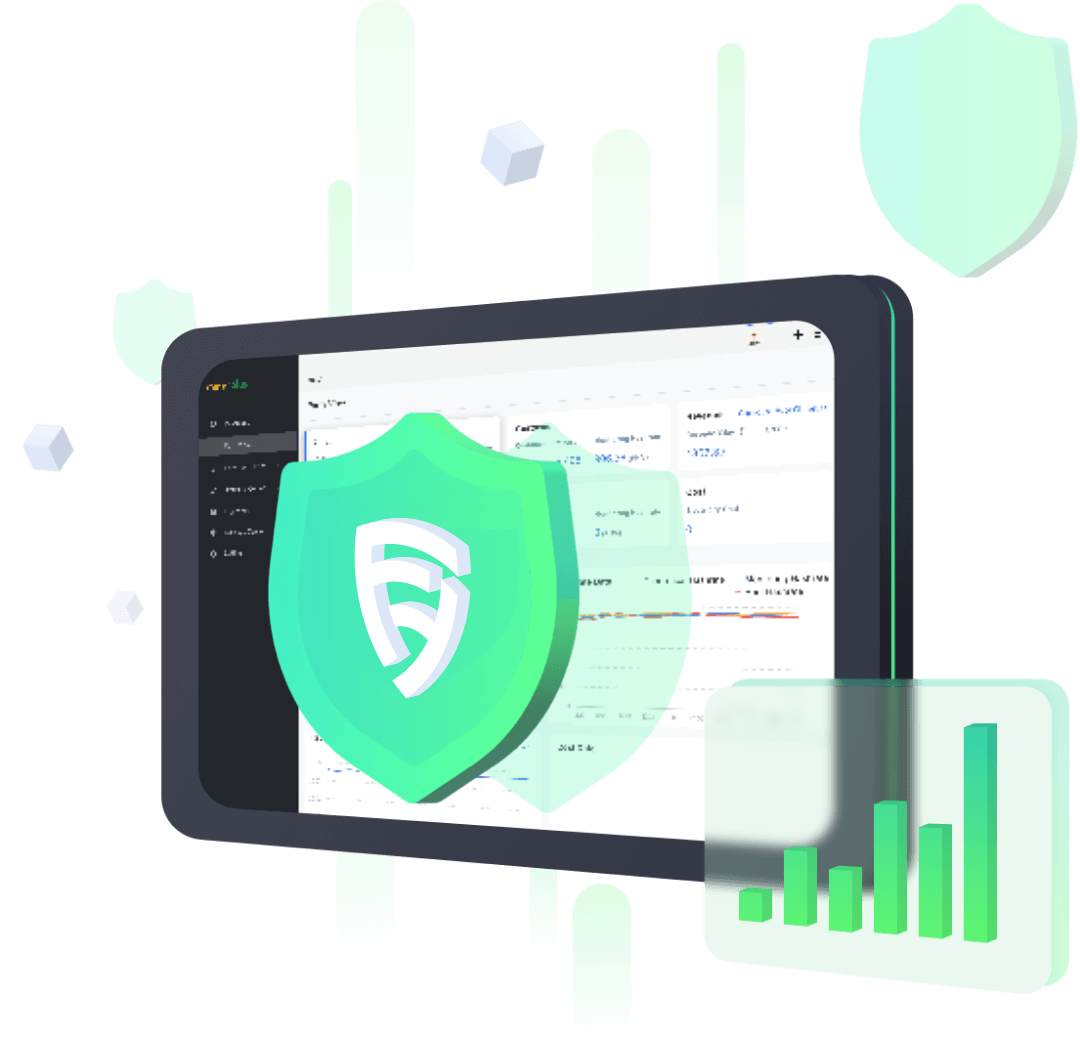
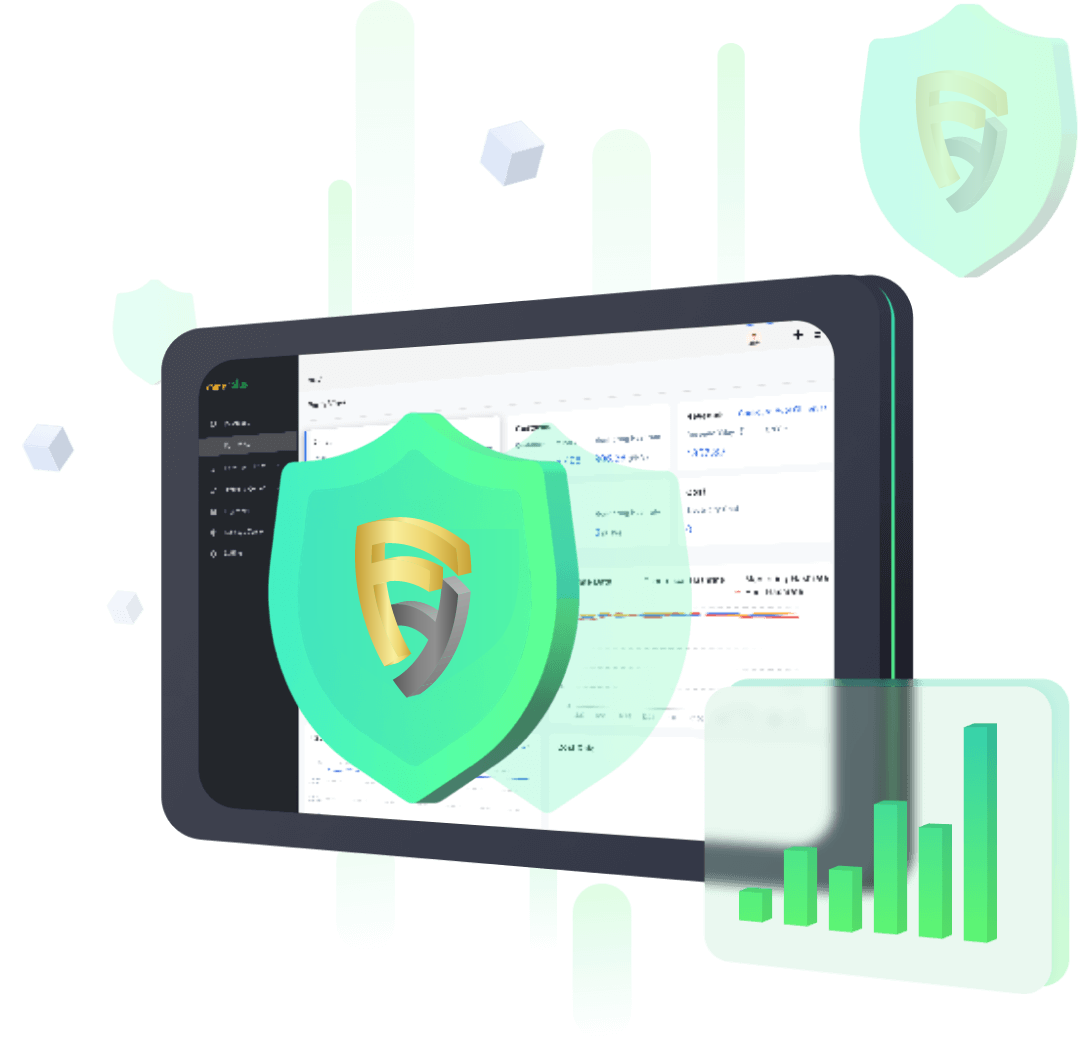
about us section image changes

Changed region(s): [[0.3056, 0.4923, 0.4583, 0.6769], [0.825, 0.0615, 0.9472, 0.2154]]

diff --git a/src/pages/AboutUs.js b/src/pages/AboutUs.js
@@ -21,7 +21,7 @@ import bloglg from './../assets/images/blog/blog-ig.png';
 import avatar3 from './../assets/images/avatar/avatar3.jpg';
 import OurTeam from './OurTeam';
 
-import aboutImg from "./../assets/images/home-banner/image_processing20210908-24724-i7p381.gif";
+import aboutImg from "./../assets/images/home-banner/pic-feco.png";
 
 import { LiaDatabaseSolid } from "react-icons/lia";
 import { TfiWorld } from "react-icons/tfi";
